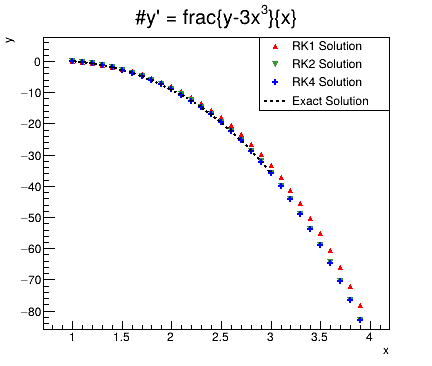
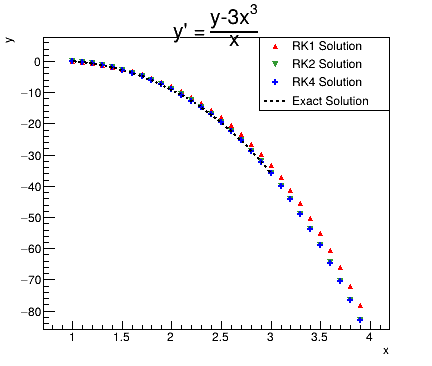
title fixed such that the latex is working

Changed region(s): [[0.3009, 0.0, 0.6921, 0.1202]]

diff --git a/RKdemo.cpp b/RKdemo.cpp
@@ -59,7 +59,7 @@ int main(int argc, char **argv){
   fun_sol.SetLineStyle(2);
   
   // plot the results
-  tg1.SetTitle("#y' = frac{y-3x^{3}}{x};x;y");
+  tg1.SetTitle("y' = #frac{y-3x^{3}}{x};x;y");
   tg1.Draw("AP");
   tg2.Draw("P");
   tg4.Draw("P");
